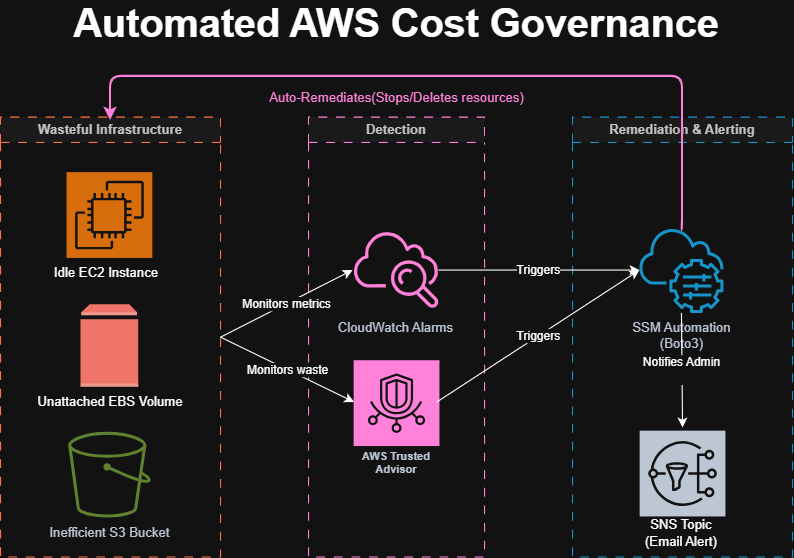
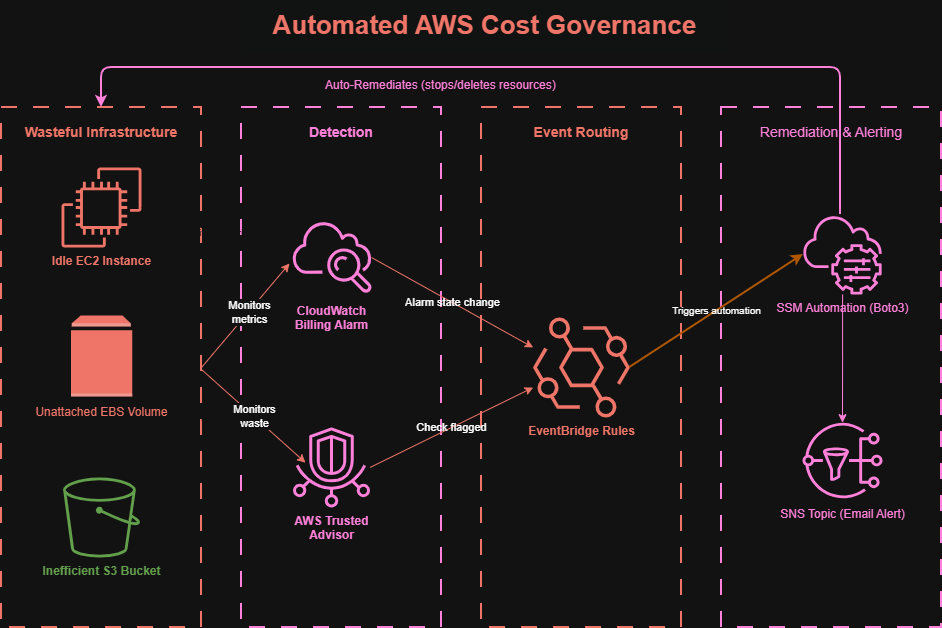
update troubleshooting guide and architecture diagrams; add IAM permission requirement for snapshot completion and adjust cleanup script comments

diff --git a/ssm_automation/cleanup_script.py b/ssm_automation/cleanup_script.py
@@ -20,6 +20,7 @@ def cleanup_unattached_volumes(ec2_client):
         print(f"Created snapshot: {snapshot['SnapshotId']}. Waiting for snapshot to complete (may take 1-5 minutes)...")
         
         # Wait for snapshot to complete before deleting volume
+        # Requires ec2:DescribeSnapshots IAM permission for the waiter to poll snapshot state
         waiter = ec2_client.get_waiter('snapshot_completed')
         waiter.wait(
             SnapshotIds=[snapshot['SnapshotId']],

diff --git a/TroubleshootingGuide.md b/TroubleshootingGuide.md
@@ -32,37 +32,6 @@ This document is continuously updated with issues, errors, and resolutions encou
 - Test the Python script locally (`ssm_automation/cleanup_script.py`) before embedding.
 - Ensure proper YAML indentation is maintained in `cleanup_document.yaml`.
 
-*(More issues will be added here as the project evolves)*
-
-### 11. EBS Volume Stuck in `deleting` for Over an Hour
-**Issue:** EBS volume remains in `deleting` state for over an hour even after the snapshot shows `completed` at 100%.
-**Cause:** AWS-side infrastructure issue — the volume deletion process did not complete despite the snapshot finishing successfully.
-**Resolution:** Force-delete the volume manually:
-```bash
-aws ec2 delete-volume --volume-id <volume-id> --region us-east-1
-```
-Then confirm it's gone (expect `InvalidVolume.NotFound`):
-```bash
-aws ec2 describe-volumes --volume-ids <volume-id> --query "Volumes[*].State" --output text --region us-east-1
-```
-Then retry the stack deletion:
-```bash
-aws cloudformation delete-stack --stack-name flo-tech-WastefulInfra --region us-east-1
-```
-If the force delete also fails, open an AWS Support case as this is an AWS backend issue.
-
-### 10. CloudFormation Stack Deletion Fails — EBS Volume Stuck in `deleting`
-**Issue:** `flo-tech-WastefulInfra` stack deletion fails with `The following resource(s) failed to delete: [UnattachedEBSVolume]`. The volume remains stuck in `deleting` state for several minutes.
-**Cause:** The SSM cleanup script called `delete_volume` immediately after `create_snapshot` without waiting for the snapshot to complete. AWS internally holds the volume in `deleting` state until any in-progress snapshots tied to it are finished, causing a multi-minute delay and CloudFormation timeout.
-**Resolution:** Added a snapshot waiter in both `cleanup_script.py` and `cleanup_document.yaml` to wait for the snapshot to complete before calling `delete_volume`. The waiter checks every 15 seconds for up to 10 minutes:
-```python
-snapshot = ec2_client.create_snapshot(VolumeId=vol_id, Description=f"Auto-snapshot {vol_id}")
-waiter = ec2_client.get_waiter('snapshot_completed')
-waiter.wait(SnapshotIds=[snapshot['SnapshotId']], WaiterConfig={'Delay': 15, 'MaxAttempts': 40})
-ec2_client.delete_volume(VolumeId=vol_id)
-```
-With this fix, the volume deletes cleanly after the snapshot completes, and CloudFormation teardown succeeds without needing a `DeletionPolicy` workaround. Always run SSM automation before `delete-stack`.
-
 ### 5. CloudFormation `EnvironmentName` Parameter Not Found
 **Issue:** `aws cloudformation create-stack` fails with `Parameters: [EnvironmentName] do not exist in the template`.
 **Cause:** The `wasteful_infrastructure.yaml` template had two separate `Parameters:` blocks. YAML treats duplicate keys as an override, so the second block (containing only `LatestAmiId`) silently overwrote the first (containing `EnvironmentName`).
@@ -103,10 +72,55 @@ aws ssm create-document \
 ```
 Then update or recreate the `flo-tech-Governance` CloudFormation stack:
 ```bash
-aws cloudformation create-stack \
+aws cloudformation update-stack \
   --stack-name flo-tech-Governance \
   --template-body file://cloudformation/governance_setup.yaml \
   --capabilities CAPABILITY_NAMED_IAM \
   --parameters ParameterKey=NotificationEmail,ParameterValue=[email redacted] \
   --region us-east-1
 ```
+
+### 10. CloudFormation Stack Deletion Fails — EBS Volume Stuck in `deleting`
+**Issue:** `flo-tech-WastefulInfra` stack deletion fails with `The following resource(s) failed to delete: [UnattachedEBSVolume]`. The volume remains stuck in `deleting` state for an extended period.
+**Cause:** Two root causes identified:
+1. The IAM role was missing `ec2:DescribeSnapshots` — the `snapshot_completed` waiter calls `describe-snapshots` internally to poll snapshot state. Without this permission the waiter failed silently and `delete_volume` was called before the snapshot completed, leaving the volume stuck in `deleting`.
+2. The SSM `aws:executeScript` step had a default timeout of 10 minutes — not enough time for the waiter (up to 10 minutes) and `delete_volume` to both complete.
+**Resolution:**
+- Added `ec2:DescribeSnapshots` to the IAM inline policy in `governance_setup.yaml` and updated the stack:
+```bash
+aws cloudformation update-stack \
+  --stack-name flo-tech-Governance \
+  --template-body file://cloudformation/governance_setup.yaml \
+  --capabilities CAPABILITY_NAMED_IAM \
+  --parameters ParameterKey=NotificationEmail,ParameterValue=<your-email> \
+  --region us-east-1
+```
+- Added `timeoutSeconds: 1800` to the SSM step in `cleanup_document.yaml` to allow 30 minutes for the full snapshot + delete sequence.
+- Updated the SSM document:
+```bash
+aws ssm update-document \
+  --name "flo-tech-CostGovCleanup" \
+  --document-format YAML \
+  --content file://ssm_automation/cleanup_document.yaml \
+  --document-version "$LATEST" \
+  --region us-east-1
+
+aws ssm update-document-default-version \
+  --name "flo-tech-CostGovCleanup" \
+  --document-version "2" \
+  --region us-east-1
+```
+- Always run SSM automation before `delete-stack` to ensure the volume is deleted before CloudFormation attempts teardown.
+
+### 11. EBS Volume Stuck in `deleting` Despite Snapshot Showing Completed
+**Issue:** EBS volume remains in `deleting` state for over an hour even after the snapshot shows `completed` at 100%.
+**Cause:** Same root causes as issue #10 — missing `ec2:DescribeSnapshots` permission caused the waiter to fail silently, and the SSM step timeout cut the process short before `delete_volume` could complete cleanly.
+**Resolution:** Apply the fixes in issue #10. If a volume is already stuck, force-delete it manually as a last resort:
+```bash
+aws ec2 delete-volume --volume-id <volume-id> --region us-east-1
+```
+Confirm it's gone (expect `InvalidVolume.NotFound`):
+```bash
+aws ec2 describe-volumes --volume-ids <volume-id> --query "Volumes[*].State" --output text --region us-east-1
+```
+If the force delete also fails, open an AWS Support case.

diff --git a/docs/README.md b/docs/README.md
@@ -129,8 +129,8 @@ aws s3api list-buckets \
 To ensure you do not incur lingering charges, clean up the resources with these bash commands:
 
 ```bash
-aws cloudformation delete-stack --stack-name flo-tech-Governance --region us-east-1
 aws cloudformation delete-stack --stack-name flo-tech-WastefulInfra --region us-east-1
+aws cloudformation delete-stack --stack-name flo-tech-Governance --region us-east-1
 aws ssm delete-document --name "flo-tech-CostGovCleanup" --region us-east-1
 ```
 ## Cost Optimization Strategies Demonstrated